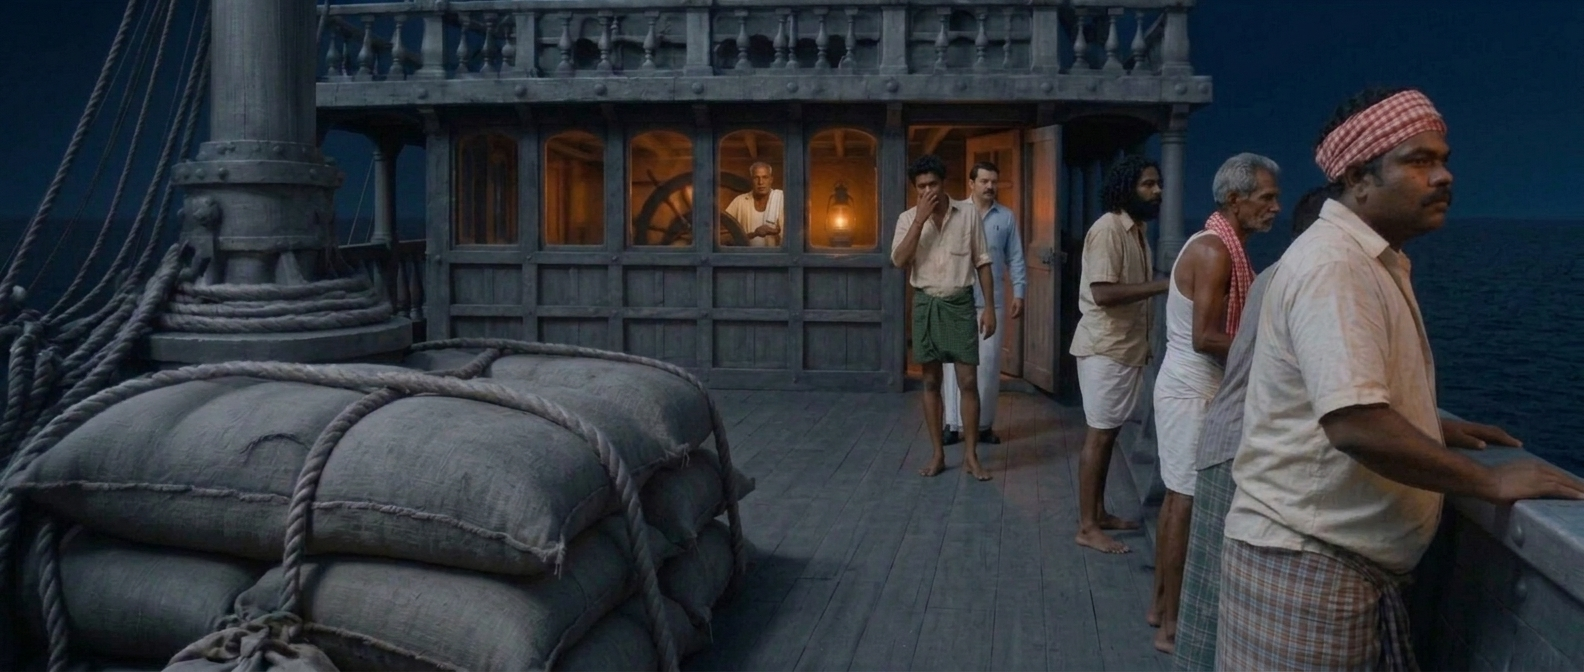
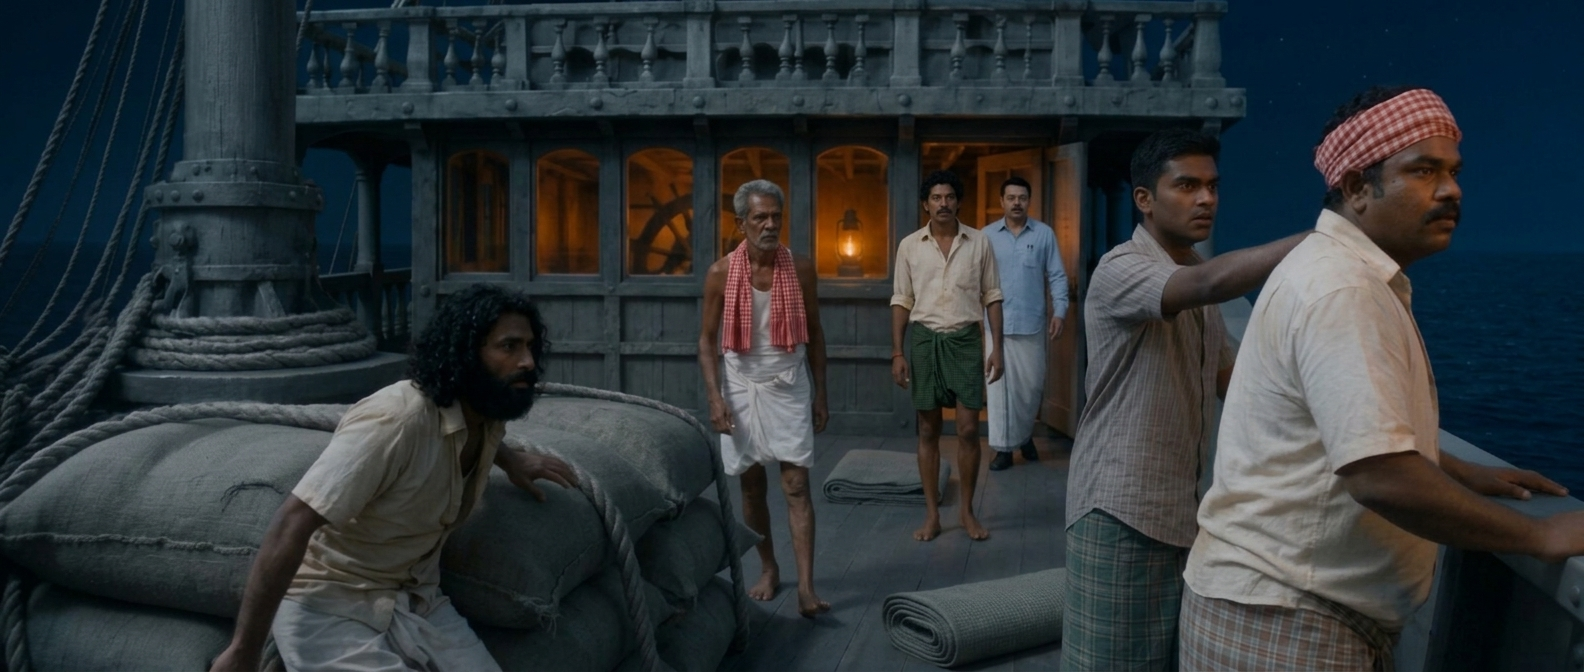
Ranjith: asset: s23-sh06b v8 start and end frames (@s23backlast, @s23sh06bend)

diff --git a/INDEX.md b/INDEX.md
@@ -139,7 +139,8 @@ Status: `approved` · `waiting for approval` · `retired`
 | `@s23wakek3` | Wake-up keyframe K3 (21:9), same view: Babu at the rail nearest the camera, Antony a step beyond him pointing out, Raghavan on his feet mid-deck, Sasi rising by the sacks, Aashaan just out of the door, the wheel empty | End of s23-sh02c | `scenes/showreel/approved/s23-wake-keyframes/k3.png` | Ranjith | 2026-11-12 | approved |
 | `@s23sh02clast` | Last frame of the approved s23-sh02c take: aft view, Babu at the rail nearest the camera, Antony a step aft with his arm out, Raghavan (towel at neck) mid-deck, Sasi rising by the sacks, Aashaan just out of the door, the wheel empty | Reference image for s23-sh03 | `scenes/showreel/approved/s23-sh02c-last.jpg` | Ranjith | 2026-11-12 | approved |
 | `@s23sh03last` | Last frame of the approved s23-sh03 take: from behind Antony at the left rail (his head and shoulder soft at the right), the burning vallam 500 m off at the left, clearly a boat, smoke rising, its reflection on the blue sea | Reference image for s23-sh04 | `scenes/showreel/approved/s23-sh03-last.jpg` | Ranjith | 2026-11-12 | approved |
-| `@s23sh06bend` | End keyframe of s23-sh06b v7 (21:9), same aft view as @s23sh02clast: Babu at the rail nearest the camera with Antony just beyond him, Raghavan (towel at neck) and Sasi along the rail, Aashaan back at the wheel, Suresh just out of the door, Balan in the doorway | s23-sh06b end reference | `scenes/showreel/approved/s23-wake-keyframes/s23-sh06b-end.png` | Ranjith | 2026-11-12 | approved |
+| `@s23backlast` | Ranjith's latest aft frame: Babu and Antony at the rail at the right, Raghavan standing mid-deck, Sasi crouched by the sacks, Aashaan walking forward from the open door, two rolled mats on the deck | Start image of s23-sh06b v8 | `scenes/showreel/approved/s23-back-last.jpg` | Ranjith | 2026-11-12 | approved |
+| `@s23sh06bend` | End keyframe of s23-sh06b v8 (21:9), same aft view as @s23backlast: Babu and Antony at the rail at the right, Raghavan mid-deck, Sasi by the sacks, both rolled mats in place, Suresh just out of the door and Balan behind him, both in shock; Aashaan has gone forward out of frame; wheel empty | s23-sh06b end reference | `scenes/showreel/approved/s23-wake-keyframes/s23-sh06b-end.png` | Ranjith | 2026-11-12 | approved |
 | `@s21sh03startfullmoon` | START frame of s21-sh03 (21:9): Antony from behind three-quarters at the right-hand bulwark of our bow (as on @urubowplate), left hand on the rail; full moon high RIGHT with its silver path; mast with its lantern at the left | Start image of s21-sh03 (and the bow view of SB028) | `scenes/showreel/approved/s21-sh03-start-fullmoon.png` | Ranjith | 2026-11-12 | approved |
 | `@s21sh03last` | Last frame of the approved s21-sh03 full-moon take (21:9): our blue bow, Antony from behind at the right-hand bulwark right of the stem, right hand on the rope coil, full moon upper right with its silver path | Start image for s23-sh01 | `scenes/showreel/approved/s21-sh03-last-fullmoon.jpg` | Ranjith | 2026-11-12 | approved |
 | `@steelplate` | Raghavan's steel plate and spoon, one prop: round worn stainless-steel thali about 30 cm, low rim, two small dents; plain steel table spoon about 18 cm (plate from above and on edge, spoon from above and side) | Every shot with the plate or spoon in frame (song on deck), with @raghavan: plate in his LEFT hand, spoon in his RIGHT; not for the fish-serving plate | `props/steelplate/prop.webp` | Aswanth | 2026-11-07 | approved |

diff --git a/scenes/showreel/image-qa/s23-wake-keyframes-qc.md b/scenes/showreel/image-qa/s23-wake-keyframes-qc.md
@@ -12,3 +12,6 @@ Cross-plate: same framing, mast at the left, sacks left foreground, deckhouse fi
 
 ## s23-sh06b end (@s23sh06bend), Ranjith 2026-11-12
 Edited from the approved s23-sh02c frame. Aashaan back at the wheel, Suresh (green mundu, red thread allowed) and Balan (blue shirt, black shoes) at the door, Raghavan towel at neck, no moon. Try 1: framing drifted wider (fail). Try 3: Antony vanished, six men (fail). Kept try 2: framing matches the start frame; Antony at the rail partly hidden behind Babu (allowed: he is clearly seen in the start image). Score 85.
+
+## s23-sh06b v8 end (@s23sh06bend replaced), Ranjith 2026-11-12
+Edited from @s23backlast. Both rolled mats in place (L151), Antony and Babu unchanged and visible, Suresh and Balan at the door with shocked faces, no moon, framing matches. Aashaan is not in frame: logical, he walked forward past the camera (aft view). A try that put him back in frame made him oversized, dropped Balan and covered the front mat (fail). Score 88.
